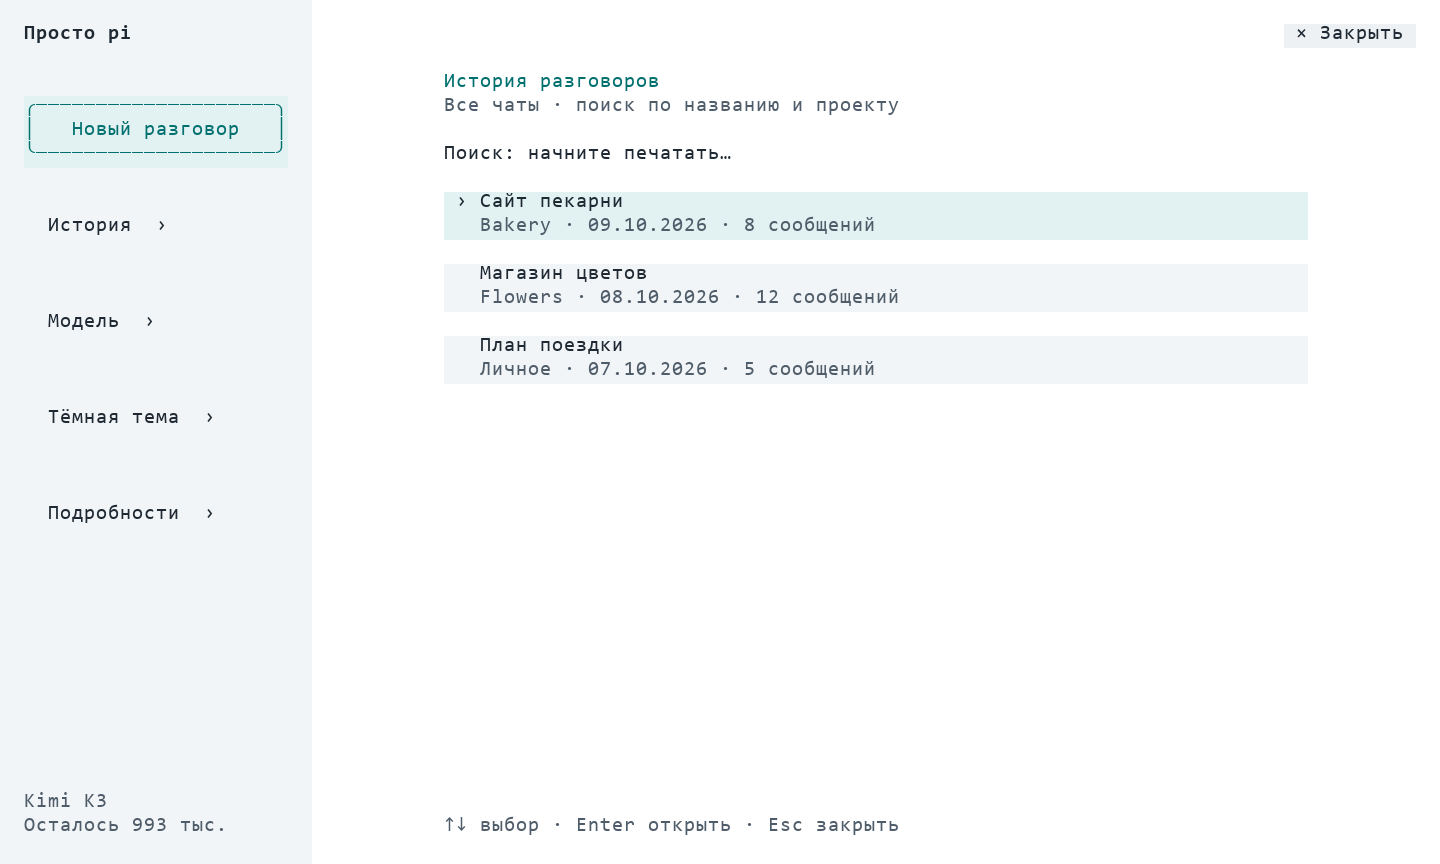
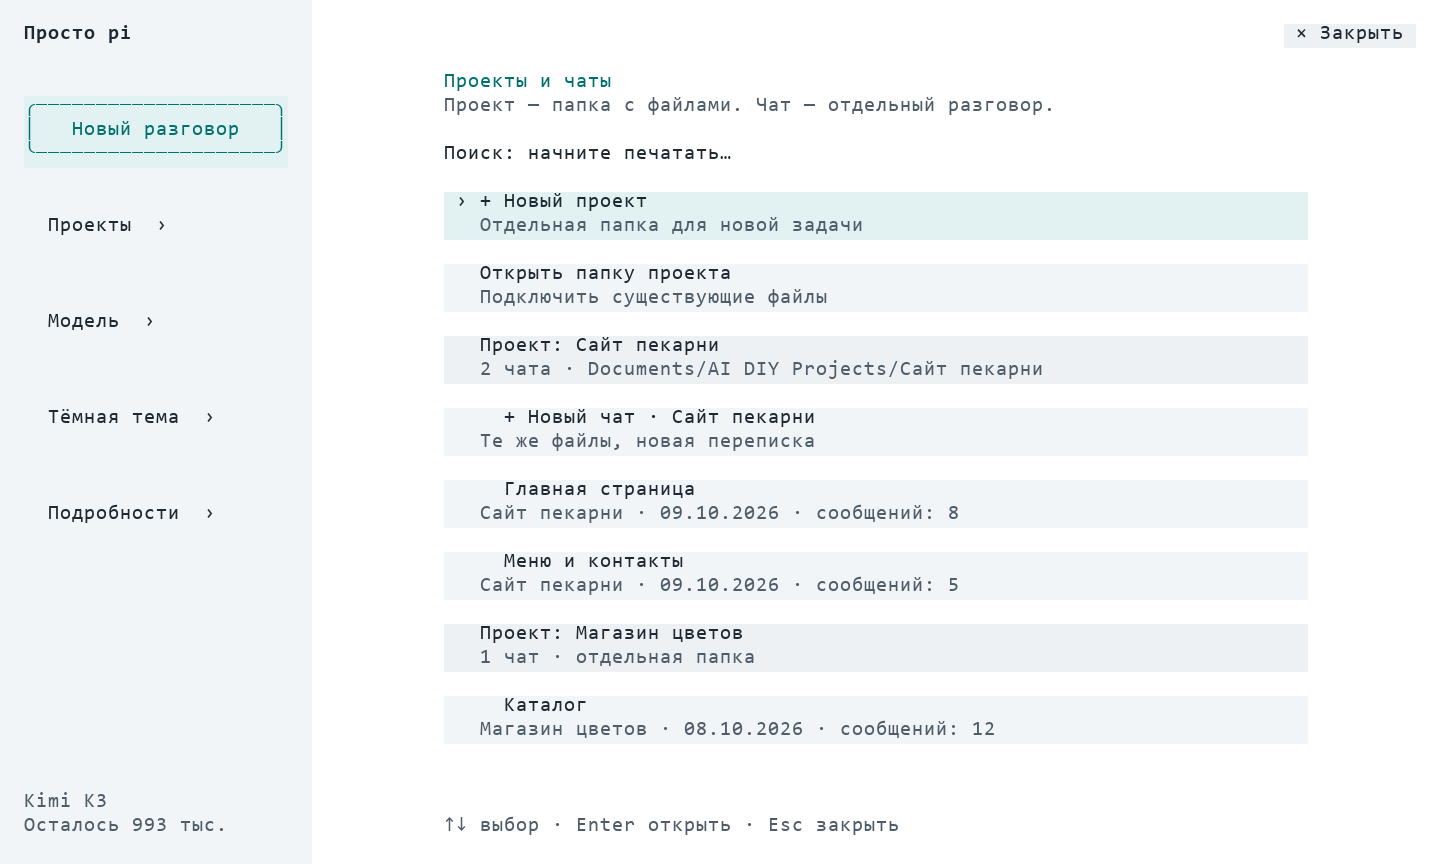
Introduce project folders with multiple chats and native cwd switching

diff --git a/index.ts b/index.ts
@@ -1,6 +1,8 @@
 import { CustomEditor, SessionManager, getAgentDir, type ExtensionAPI } from "@earendil-works/pi-coding-agent";
 import { Markdown, matchesKey, truncateToWidth, visibleWidth } from "@earendil-works/pi-tui";
 import { readFileSync, writeFileSync } from "node:fs";
+import { homedir } from "node:os";
+import { createProjectStore } from "./projects.mjs";
 import { join } from "node:path";
 import { installFriendly } from "./friendly.mjs";
 export default function friendly(pi: ExtensionAPI) {
@@ -8,6 +10,7 @@ export default function friendly(pi: ExtensionAPI) {
   installFriendly(pi, { matchesKey, truncate: truncateToWidth, measure: visibleWidth,
     makeEditor: (tui, theme, keys) => new CustomEditor(tui, theme, keys),
     listSessions: () => SessionManager.listAll(),
+    projects: createProjectStore({root:join(homedir(),"Documents","AI DIY Projects"),registry:join(getAgentDir(),"friendly-projects.jsonl"),SessionManager}),
     loadPrefs: () => { try { return JSON.parse(readFileSync(preferencePath, "utf8")); } catch { return {}; } },
     savePrefs: prefs => writeFileSync(preferencePath, JSON.stringify(prefs), "utf8"),
     markdown: (text, width, palette) => {

diff --git a/README.md b/README.md
@@ -14,6 +14,24 @@ pi install git:github.com/slavamirniy/pi-friendly
 pi remove git:github.com/slavamirniy/pi-friendly
 ```
 
+## Проекты
+
+Проект — отдельная папка с файлами. Внутри проекта может быть несколько независимых чатов с общими файлами.
+
+**Новый разговор** предлагает:
+
+- **В текущем проекте** — новая переписка с теми же файлами.
+- **Новый проект** — введите название, расширение создаст отдельную папку в ~/Documents/AI DIY Projects.
+- **Выбрать проект** — открыть существующий проект или его чат.
+
+**Проекты** показывает проекты вместе с их чатами: чат открывается одним нажатием. Клик по проекту открывает его последний чат; **+ Новый чат** начинает пустую переписку в выбранном проекте. **Открыть папку проекта** подключает существующую папку по полному пути.
+
+Название текущего проекта видно над перепиской. Рабочую папку меняет штатный механизм переключения сессий pi: файловые инструменты, настройки и ресурсы загружаются для целевого проекта. Это разделение рабочих папок, а не файловая песочница: абсолютные пути остаются доступны инструментам.
+
+При запуске из общей папки ярлыка первое обычное задание требует выбора проекта. Старые чаты в общей папке доступны в группе «Старые чаты в общей папке»; файлы и история автоматически не переносятся. При смене чата черновик переносится в новое поле ввода. Отмена выбора ничего не меняет.
+
+Пустые проекты сохраняются в ~/.pi/agent/friendly-projects.jsonl, разговоры — в штатном хранилище pi. Совпадающее название нового проекта создаёт папку с числовым суффиксом, без перезаписи существующих файлов.
+
 ## Интерфейс
 
 История и выбор модели открываются справа, левая навигация остаётся доступной. **× Закрыть** возвращает к чату; можно сразу переключиться в другой раздел слева. При переходе предыдущий раздел остаётся видимым до отрисовки следующего, без промежуточного экрана чата. Карточки истории и моделей имеют две кликабельные строки. Кнопки «Команды» нет: используйте / в поле ввода.
@@ -22,9 +40,9 @@ pi remove git:github.com/slavamirniy/pi-friendly
 
 ![Интерфейс](design/preview-work.png)
 
-- Слева — **Новый разговор**, **История**, **Модель**, переключение светлой/тёмной темы и **Подробности**. На маленькой высоте часть действий доступна через **Ещё…**.
+- Слева — **Новый разговор**, **Проекты**, **Модель**, переключение светлой/тёмной темы и **Подробности**. На маленькой высоте часть действий доступна через **Ещё…**.
 - **Отправить** имеет кликабельную область высотой три строки и становится **Выполнить** при вводе slash-команды и **Остановить** во время ответа.
-- История показывает все чаты сразу, от новых к старым. Проект и дата подписаны под названием; поиск работает по названию и проекту. Разговор открывается одним нажатием. Перед заменой незавершённого текста требуется подтверждение.
+- Проекты и их чаты показаны одним списком. Дата и проект подписаны под названием чата, поиск работает по названиям и проектам.
 - Служебный баннер расширений, reasoning и подробные логи инструментов скрыты в обычном чате. **Подробности** возвращают стандартный экран pi; кнопка сверху возвращает в чат.
 - Во время работы показана лента реальных действий: создание и изменение файлов, чтение, тесты, сборка. Видны завершённые шаги, текущее действие и затраченное время. Проценты готовности не выдумываются.
 - Ошибка отображается отдельной карточкой: понятная причина, следующий шаг и **Подробнее** с текстом сервиса. Поддержаны ошибки сети, доступа, квоты, ограничения частоты, контекста и сервера. Уведомления о прогрессе не скрывают ошибку.
@@ -49,6 +67,7 @@ pi remove git:github.com/slavamirniy/pi-friendly
 node --test *.test.mjs
 pi -e ./index.ts
 node smoke.mjs /path/to/node_modules/@earendil-works/pi-coding-agent
+node smoke-projects.mjs /path/to/node_modules/@earendil-works/pi-coding-agent
 ```
 
 Тесты покрывают мышь, размеры окна, поиск, штатное выполнение команд, сторонние slash-подсказки, асинхронные гонки, методы редактора, историю, статусы, светлую/тёмную тему и скрытие reasoning. Smoke-проверка загружает расширение настоящим загрузчиком pi. Проверки не требуют запроса к платной модели.
